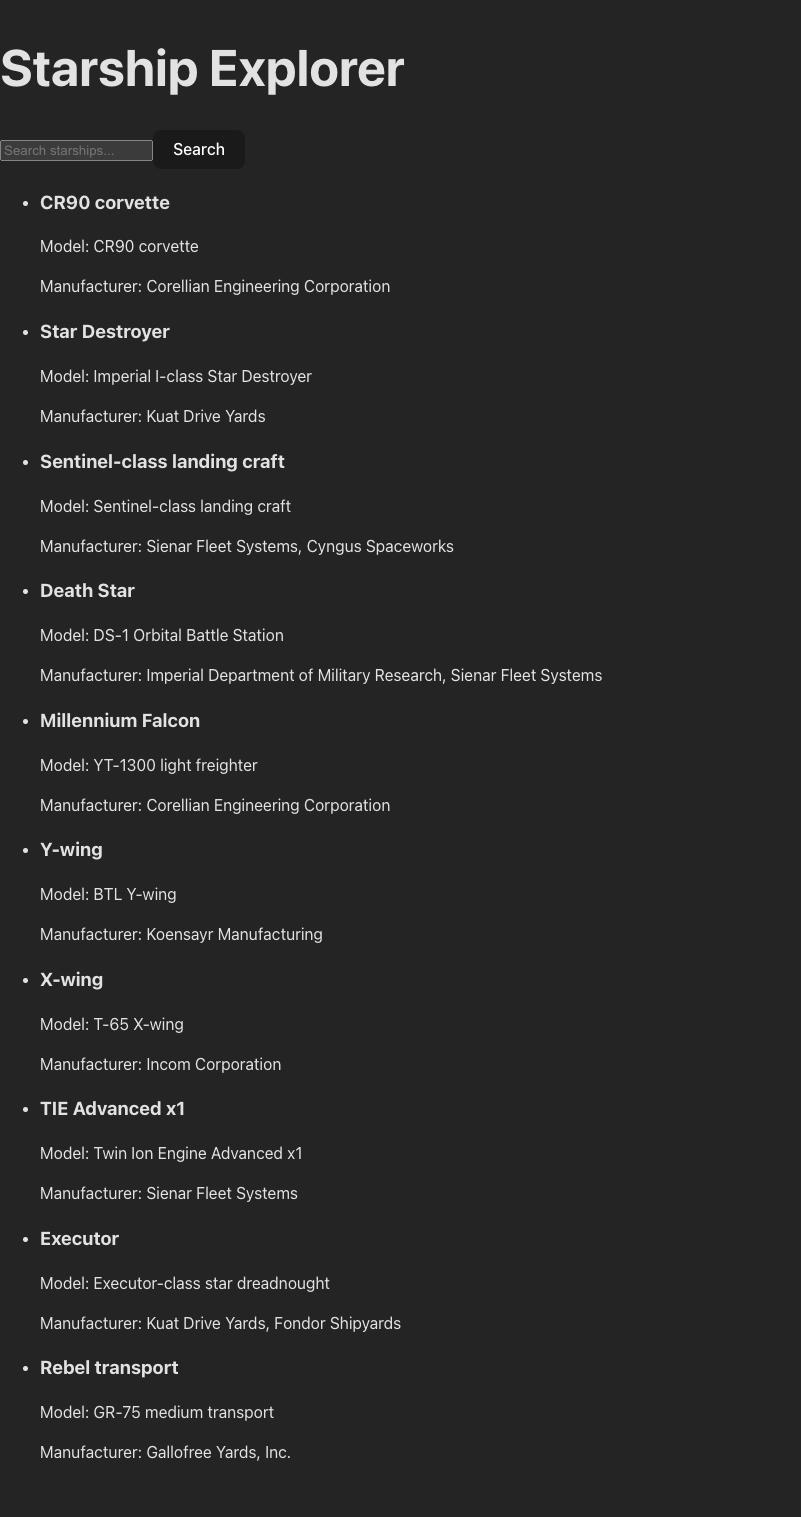
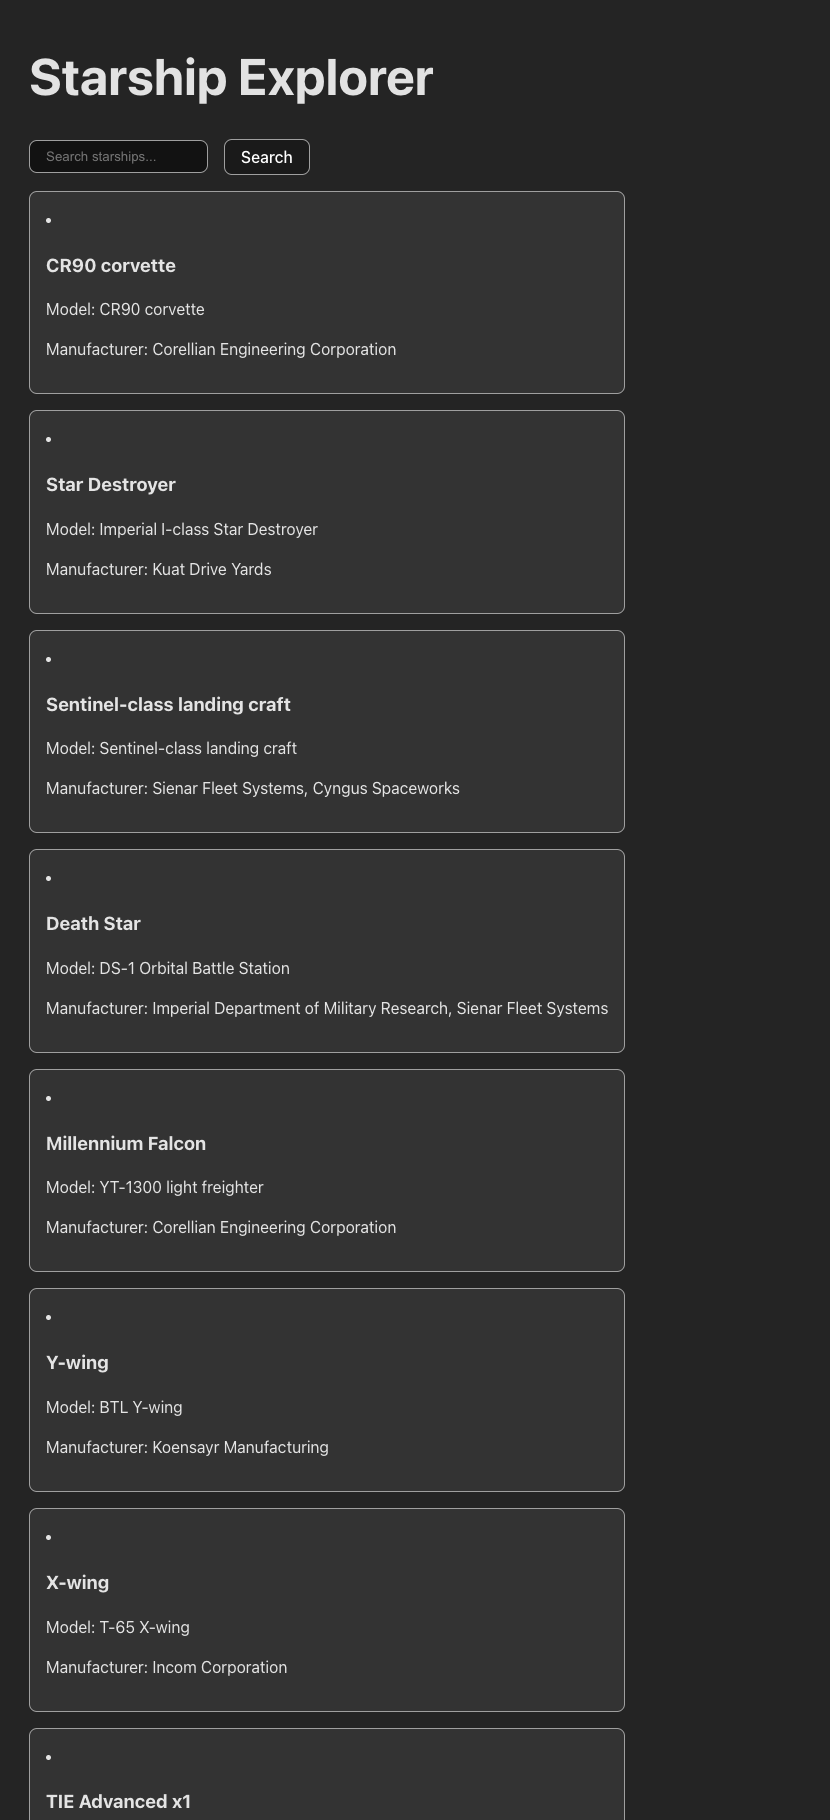
css update

diff --git a/src/components/StarshipList.jsx b/src/components/StarshipList.jsx
@@ -2,12 +2,12 @@ import StarshipCard from './StarshipCard';
 
 export default function StarshipList({ starships }) {
   return (
-    <section>
-      <ul>
-        {starships.map((starship) => (
-          <StarshipCard key={starship.name} starship={starship} />
-        ))}
-      </ul>
-    </section>
+    <div>
+      {starships.map((starship) => (
+        <section key={starship.name} className="starship-section">
+          <StarshipCard starship={starship} />
+        </section>
+      ))}
+    </div>
   );
 }

diff --git a/src/App.css b/src/App.css
@@ -2,24 +2,23 @@ main {
   padding: 16px 32px;
 }
 
-section ul {
-  padding: 0;
-  display: grid;
-  grid-gap: 16px;
-  list-style: none;
-  grid-template-columns: 1fr 1fr 1fr;
-}
-
-li {
-  padding: 8px 16px;
+.starship-section {
+  margin-bottom: 16px;
+  padding: 16px;
   border-radius: 8px;
   background-color: #333333;
   border: 1px solid rgb(160, 160, 160);
 }
 
+.starship-card {
+  padding: 8px;
+  color: #ffffff;
+}
+
 form {
   display: flex;
   align-items: center;
+  margin-bottom: 16px;
 }
 
 form * {

diff --git a/src/App.jsx b/src/App.jsx
@@ -2,6 +2,7 @@ import { useState, useEffect } from 'react';
 import { getStarships } from './services/starshipService';
 import StarshipSearch from './components/StarshipSearch';
 import StarshipList from './components/StarshipList';
+import './App.css';
 
 function App() {
   const [starships, setStarships] = useState([]);
